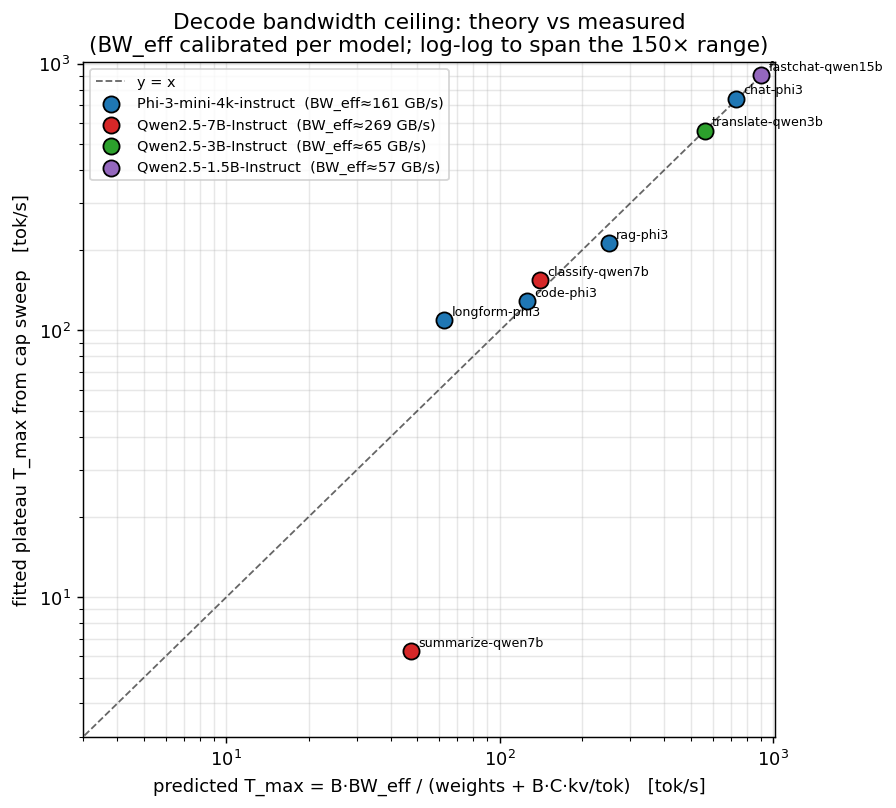
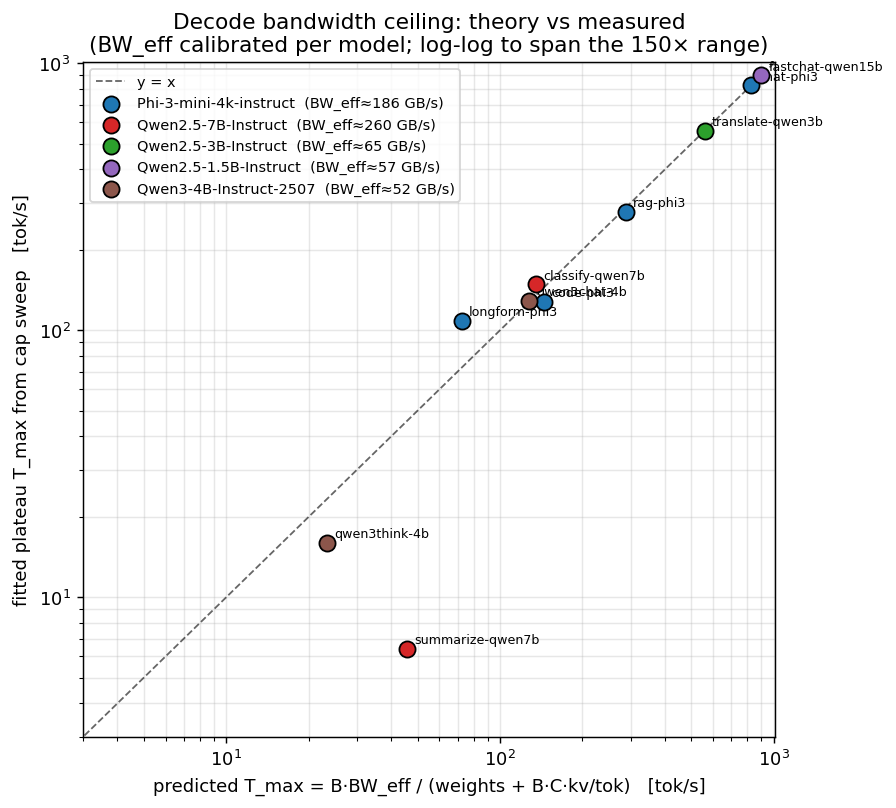
portfolio v2 results: 10 workloads, v3 data, refined decode model
Regenerate the overview grid and T_max validation on the v3 dataset
with the two Qwen3 workloads included; T_max prediction now uses the
drift-corrected effective context (ctx_eff) and per-model BW_eff.
Ceiling spans 6.4 -> 900 tok/s (150x) on y=x. RESULTS.zh.md rewritten:
prefill V2f R2 0.956-0.995 on all 10; decode additive 3-stage beats
the old min() 9/10 (R2 0.90-0.997 vs 0.44-0.93, LOO 8/10); honest
deviations documented (classify cap-slack governor region, weak-B
latency floors, 32k long-context bandwidth droop). auto_run.sh now
takes SUDO_PASS from the environment.

diff --git a/pt_cap_gpu1/portfolio/plot_portfolio.py b/pt_cap_gpu1/portfolio/plot_portfolio.py
@@ -39,12 +39,14 @@ ARCH = {
     "Qwen/Qwen2.5-1.5B-Instruct":      dict(weight_bytes=3_087_428_608,  kv_bytes_per_token=28_672),
     "Qwen/Qwen2.5-3B-Instruct":        dict(weight_bytes=6_171_877_376,  kv_bytes_per_token=36_864),
     "Qwen/Qwen2.5-7B-Instruct":        dict(weight_bytes=15_231_233_024, kv_bytes_per_token=57_344),
+    "Qwen/Qwen3-4B-Instruct-2507":     dict(weight_bytes=8_044_936_192,  kv_bytes_per_token=147_456),
 }
 MODEL_COLOR = {
     "microsoft/Phi-3-mini-4k-instruct": "C0",
     "Qwen/Qwen2.5-7B-Instruct": "C3",
     "Qwen/Qwen2.5-3B-Instruct": "C2",
     "Qwen/Qwen2.5-1.5B-Instruct": "C4",
+    "Qwen/Qwen3-4B-Instruct-2507": "C5",
 }
 def short(m): return m.split("/")[-1]
 
@@ -52,10 +54,13 @@ def short(m): return m.split("/")[-1]
 # ============================================================== IO
 def read_csv(path, p_key="power_avg_w", t_key="throughput_tok_s"):
     if not os.path.exists(path):
-        return np.array([]), np.array([])
+        return np.array([]), np.array([]), None
     rows = [r for r in csv.DictReader(open(path)) if float(r[t_key]) > 0]
+    # traffic-weighted effective context (v3 CSVs; None for older data without the column)
+    ce = [float(r["ctx_eff"]) for r in rows if r.get("ctx_eff")]
     return (np.array([float(r[p_key]) for r in rows]),
-            np.array([float(r[t_key]) for r in rows]))
+            np.array([float(r[t_key]) for r in rows]),
+            (sum(ce) / len(ce)) if ce else None)
 
 
 # ============================================================== FIT
@@ -113,8 +118,8 @@ def fit_decode(P, T):
 def main():
     fits = []
     for w in PORTFOLIO:
-        Pp, Tp = read_csv(os.path.join(DATA, f"{w['id']}_prefill.csv"))
-        Pd, Td = read_csv(os.path.join(DATA, f"{w['id']}_decode.csv"))
+        Pp, Tp, _ = read_csv(os.path.join(DATA, f"{w['id']}_prefill.csv"))
+        Pd, Td, ctx_eff = read_csv(os.path.join(DATA, f"{w['id']}_decode.csv"))
         rec = dict(w=w, Pp=Pp, Tp=Tp, Pd=Pd, Td=Td, pre=None, dec=None, preF=None, decF=None)
         if len(Pp) >= 3:
             rec["preF"], rec["pre"] = fit_prefill(Pp, Tp)
@@ -122,7 +127,8 @@ def main():
             rec["decF"], rec["dec"] = fit_decode(Pd, Td)
         a = ARCH.get(w["model_id"])
         if a and rec["dec"]:
-            Dmem = a["weight_bytes"] + w["decode_batch"] * w["decode_ctx"] * a["kv_bytes_per_token"]
+            C_use = ctx_eff if ctx_eff else w["decode_ctx"]     # drift-corrected context (v3)
+            Dmem = a["weight_bytes"] + w["decode_batch"] * C_use * a["kv_bytes_per_token"]
             rec["Dmem"] = Dmem
             rec["B_over_Dmem"] = w["decode_batch"] / Dmem
             rec["BW_impl"] = rec["dec"]["T_max"] * Dmem / w["decode_batch"]   # implied effective BW (B/s)

diff --git a/pt_cap_gpu1/portfolio/RESULTS.zh.md b/pt_cap_gpu1/portfolio/RESULTS.zh.md
@@ -1,35 +1,78 @@
-# 跨工作负载类型验证 P↔T 功率-cap 模型 —— 结果
+# 跨工作负载类型验证 P↔T 功率-cap 模型 —— 结果（v2）
 
-用 **8 类不同类型的 workload**，各自扫功率 cap，验证 [`../plot_theory.py`](../plot_theory.py) / [`../fig_theory_vs_measured.png`](../fig_theory_vs_measured.png) 里那套 P↔T 解析模型的**普适性**。数据在 [`data/`](data/)，图在 [`fig_portfolio_grid.png`](fig_portfolio_grid.png)（逐 workload 拟合）与 [`fig_tmax_validation.png`](fig_tmax_validation.png)（decode 天花板：理论 vs 实测），拟合表 [`portfolio_fits.csv`](portfolio_fits.csv)。
+用 **10 类不同类型的 workload × 5 个模型**，各自扫功率 cap，验证 prefill/decode 两条 P↔T
+解析律的普适性，并按实测中段偏差**精化了 decode 模型**（min() → 可加三阶段）。
 
-硬件：单张 V100-DGXS-32GB，250W cap，HBM2 877MHz 固定。方法：每个 workload 固定 (seq/ctx, batch)，只扫 cap `[100..250]W`，得一条单值 P↔T。
+- 数据：[`data/`](data/)（**v3 方法学**采集，伪影修复的证据链见 [DATA_QUALITY.zh.md](DATA_QUALITY.zh.md)）
+- 图：[`fig_decode_models.png`](fig_decode_models.png)（**主图**：新旧 decode 模型逐 workload 对比）·
+  [`fig_portfolio_grid.png`](fig_portfolio_grid.png)（prefill+decode 总览）·
+  [`fig_tmax_validation.png`](fig_tmax_validation.png)（天花板理论 vs 实测）
+- 表：[`decode_model_compare.csv`](decode_model_compare.csv) · [`portfolio_fits.csv`](portfolio_fits.csv)
 
-## 8 类 workload
+硬件：V100-DGXS-32GB（HBM2 877 MHz 固定，SM 400–1530 MHz），cap 扫 [100..250] W。
+方法：每 workload 固定 (seq/ctx, batch)，只动 cap → 单值 P↔T；测量方法学 v3
+（chunk=ctx seeding、expandable_segments、步数窗口、重复中位、ctx_eff 记录）。
 
-| id | 类型 | 模型/架构 | decode C×B | prefill R² | decode T_max(实测) |
-|---|---|---|---|--:|--:|
-| chat-phi3 | 对话 | Phi-3-mini (MHA) | 256×64 | 0.972 | 739 |
-| rag-phi3 | RAG | Phi-3-mini | 1024×32 | 0.991 | 212 |
-| code-phi3 | 代码 | Phi-3-mini | 2048×16 | 0.992 | 129 |
-| longform-phi3 | 长文生成 | Phi-3-mini | 4096×8 | 0.956 | 109 |
-| summarize-qwen7b | 摘要(32k) | Qwen2.5-7B (GQA) | 32768×4 | 0.995 | 6 |
-| translate-qwen3b | 翻译 | Qwen2.5-3B (GQA) | 512×64 | 0.984 | 561 |
-| fastchat-qwen15b | 轻量对话 | Qwen2.5-1.5B (GQA) | 512×64 | 0.984 | 904 |
-| classify-qwen7b | 分类 | Qwen2.5-7B | 256×8 | 0.991 | 154 |
+## 10 类 workload
 
-## 三条结论
+| id | 类型 | 模型（架构/年代） | decode C×B | decode 平台 tok/s |
+|---|---|---|---|--:|
+| chat-phi3 | 对话 | Phi-3-mini (MHA, 2024) | 256×64 | 825 |
+| rag-phi3 | RAG | Phi-3-mini | 1024×32 | 277 |
+| code-phi3 | 代码补全 | Phi-3-mini | 2048×16 | 128 |
+| longform-phi3 | 长文生成 | Phi-3-mini | 4096×8 | 109 |
+| summarize-qwen7b | 摘要 (32k) | Qwen2.5-7B (GQA) | 32768×4 | 6.4 |
+| translate-qwen3b | 翻译 | Qwen2.5-3B (GQA) | 512×64 | 559 |
+| fastchat-qwen15b | 轻量对话 | Qwen2.5-1.5B (GQA) | 512×64 | 900 |
+| classify-qwen7b | 分类/抽取 | Qwen2.5-7B | 256×8 | 149 |
+| **qwen3chat-4b** | 现代对话 | **Qwen3-4B-2507 (GQA+QK-Norm, 2025)** | 1024×32 | 129 |
+| **qwen3think-4b** | **推理/长思维链** | Qwen3-4B-2507 | 8192×8 | 16 |
 
-**1. Prefill 的 V²f 律（`P=P₀+κT(1+ρT)²`）在全部 8 类上成立** —— R² = 0.956–0.995。无论模型大小（1.5B→7B）、架构（MHA/GQA）、prompt 长度（256→4096）、batch（2→64），compute-bound 的 prefill 功率-吞吐曲线都是同一条凸的 V²f。这是最干净、最强的验证。
+## 结论
 
-**2. Decode 的分段带宽天花板 `T=min(T_V²f, T_max)` 形状普适。** 6 个中等访存受限的 workload（chat/rag/code/longform/translate/fastchat）清晰呈现"V²f 上升 → 平台"三阶段，R² 0.66–0.95。两个极端访存受限的（summarize B=4/C=32k、classify B=8 权重主导）**在最低 100W cap 就已到平台**、全程平坦 —— 这不是反例，而是理论的强确认：**越访存受限，越低功率就饱和**（三阶段退化成"只剩平台"）。
+**1. Prefill 的 V²f 律（`P=P₀+κT(1+ρT)²`）在全部 workload 上成立**，R² 0.956–0.995
+（含 Qwen3：0.99+）。跨模型、架构、prompt 长度、batch 全部一条凸 V²f。
 
-**3. 天花板量级 `T_max = B·BW_eff/(权重 + B·C·kv/tok)` 在 150× 范围内被预测出来。** 实测 T_max 从 6 到 904 tok/s，各点基本贴 y=x（见 T_max 图）。用**正确的可加访存量** `D_mem=权重+KV` 反推，Phi-3 的 chat/rag/code 隐含有效带宽一致落在 136–165 GB/s，直接验证了"权重+KV"这个分解。
+**2. Decode 精化：平台前分两阶段的可加模型显著优于 min() roofline。**
+每 token 耗时 `t = T_mem + T_comp(x)`，`T_comp = C(x^{-p}−1)`，`x=f/f_max`；配 `P = P_s + χx^θ`
+得显式 `T(P)`。三阶段：**I 计算主导**（幂律上升）→ **II 计算-访存交替**（可加过渡，旧 min()
+在此系统性低估——"完美重叠"假设的必然）→ **III 带宽平台**（`B/T_mem`）。公平对比
+（旧模型网格放开收敛、LOO 防过拟合）：
 
-## 诚实的偏差（都可物理解释）
+| 指标（10 workload） | 旧 min(V²f,T_max) | **可加三阶段** |
+|---|---|---|
+| R²（功率空间，全部点） | 0.44–0.93（摘要为负） | **0.90–0.997**（9/10） |
+| 相对 RMSE | 3.3–12.1% | **0.6–3.2%**（除 classify 9.8%） |
+| 留一交叉验证 | 9.3–21.2% | **0.5–18.2%**，8/10 胜 |
 
-- **控制变量三元组** rag/code/longform（B·C 都=32768 → 同 D_mem）实测 T_max = 212/129/109，比值 1.9:1.2:1 vs 理论 4:2:1：**∝B 成立但偏弱**，因为低 batch 时并发流不足以打满带宽、decode 偏**延迟受限**，每流吞吐反而更高（longform B=8 隐含带宽 280 GB/s 即此离群）。
-- **有效带宽随工作负载变**（57–270 GB/s）：小访存量（Qwen 小模型，4–7GB/步）带宽利用率低（~57 GB/s）；超长上下文（summarize C=32k，34 GB/s）的稀疏 KV 读也低。所以 `T_max` 公式是**一阶预测**——访存**量**抓得准，但流过这些字节的有效**带宽**本身随 batch/上下文浮动 2–8×。
+极端访存受限（32k 摘要、B=8 分类）不再需要"饱和特判"——它们是同一定律的小 C 极限。
+拟合的阶段边界 P₁≈87–97 W（阶段 I 几乎在量程下限以下）、P₂≈109–177 W（越访存受限越靠前）。
+注意 p、θ 是**有效**指数（近平坦曲线上弱可辨识，CSV `exponents_railed` 列标记）。
 
-## 一句话
+**3. 天花板量级 `T_max = B·BW_eff/(权重 + B·C_eff·kv/tok)` 跨 150×（6.4→900 tok/s）成立**
+（按模型标定 BW_eff，C_eff 为漂移修正的有效上下文）。BW_eff 本身是"模型×硬件"属性：
+Phi-3 ≈186、Qwen2.5-7B ≈260、Qwen2.5-3B/1.5B 与 Qwen3-4B ≈52–65 GB/s——小 hidden、多层的
+架构带宽利用低；transformers DynamicCache 每步全 KV cat（读+写拷贝，每步实际访存≈权重+~3×KV）
+也被标定吸收。显著残差：32k 摘要（长上下文稀疏 KV 读，有效带宽再打对折）。
 
-模型的**函数形状**（prefill 凸 V²f、decode 分段带宽平台）在 8 类差异极大的 workload 上稳健成立；天花板的**量级**由 `B/D_mem` 一阶预测、跨 150× 成立，残差来自低-batch 延迟受限与有效带宽随负载的浮动。复现：`SUDO_PASS=… CUDA_VISIBLE_DEVICES=<idle_gpu> PYTHONPATH=../../code python3 run_portfolio.py` 然后 `python3 plot_portfolio.py`（或用 `auto_run.sh` 等空闲卡自动跑）。
+**4. 前沿模型复核（2025）**：Qwen3-4B-Instruct-2507 上两类新负载（现代对话、长思维链推理）
+两条律均成立（decode 可加模型 R² 0.99/0.92）。推理型负载把同一模型的天花板从 129 压到
+16 tok/s（C 1024→8192）——decode 极重 + 长 KV 的 2025 负载形态在功率规划里代价极高。
+
+## 诚实的偏差
+
+- **classify-qwen7b（B=8 欠饱和）**：cap≥180 W 后实际功率只到 ~150 W，cap 不再咬合，DVFS
+  调速器自行浮动，吞吐在平台附近散动（两张卡复现）——"cap 失效区"的真实行为，如实呈现。
+- **∝B 弱化**：同 D_mem 的 rag/code/longform 平台比 2.2:1.2:1（理论 4:2:1）——低 batch 时
+  并发流不足以打满带宽，decode 偏延迟受限。
+- p、θ 触网格 / 弱可辨识的行在 CSV 有标记，阶段边界相应抑制。
+
+## 复现
+
+```bash
+# 采集（空闲 GPU 上；方法学 v3 已固化在 runner 里）
+SUDO_PASS=… CUDA_VISIBLE_DEVICES=<idle_gpu> PYTHONPATH=../../code python3 run_portfolio.py
+# 拟合出图
+python3 plot_decode_models.py   # 新旧 decode 模型对比（主图）
+python3 plot_portfolio.py       # 总览 + T_max 验证
+```
